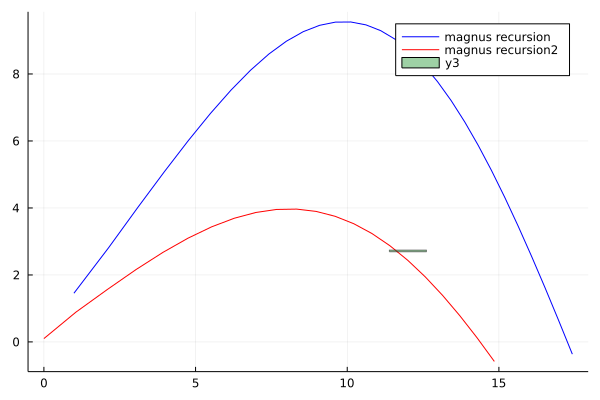
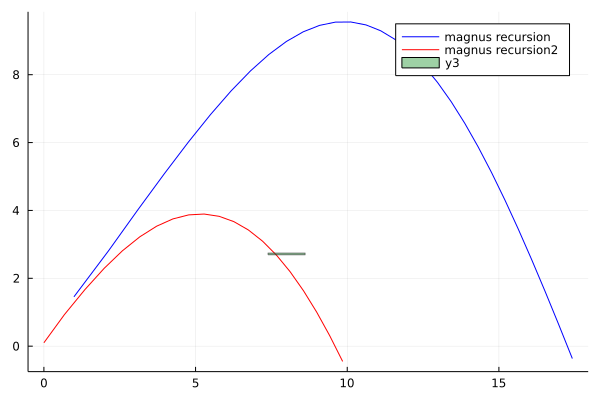
something something this is where git breaks
This reverts commit 9f1d5083c3188668f7d04da4a7a20aa9178f8e43.

diff --git a/skynet-robot-libary/src/main/java/frc/robot/lib/Meth/shooter_optimiztion.java b/skynet-robot-libary/src/main/java/frc/robot/lib/Meth/shooter_optimiztion.java
@@ -72,8 +72,8 @@ public final class shooter_optimiztion {
         Double Angle_Increment = (shooting_angle != OptimizationType.MAXIMIZE) ? -Angle_Resolution : Angle_Resolution;
         Double Current_Angle = Initial_Angle;
 
-        Double Initial_Rotation_Ratio = (spin_dierction != OptimizationType.MAXIMIZE) ? 1 - (Min_RPM / Max_RPM)
-                : (Min_RPM / Max_RPM);
+        Double Initial_Rotation_Ratio = (spin_dierction != OptimizationType.MAXIMIZE) ? 1 - 2 * (Min_RPM / Max_RPM)
+                : 2 * (Min_RPM / Max_RPM);
         Double Rotation_Ratio_Increment = (spin_dierction != OptimizationType.MAXIMIZE) ? -Rotation_Ratio_Resolution
                 : Rotation_Ratio_Resolution;
         Double Current_Rotation_Ratio = (spin_dierction == OptimizationType.IGNORE) ? -1.0 : Initial_Rotation_Ratio;
@@ -91,7 +91,7 @@ public final class shooter_optimiztion {
 
                 double muzzle_velocity = (TopRPS * TopCircumference + BottomRPS * BottomCircumference) / 2.0; // SURFACE
                                                                                                               // SPEED
-                double angle_rads = angle; // IN RADIANS
+                double angle_rads = Math.toRadians(angle); // IN RADIANS
 
                 double TopRads = 0.104719755 * TopRPM;
                 double BottompRads = 0.104719755 * BottomRPM;
@@ -106,11 +106,12 @@ public final class shooter_optimiztion {
                 projectile.set_rotational_velocity(started_rotational_velocity);
 
                 ArrayList<State> states = projectile.simulate_ball(false);
+
                 Boolean result = target.check(states);
 
-                // if (result) {
-                // states_to_pos(states);
-                // }
+                if (result) {
+                    states_to_pos(states);
+                }
 
                 projectile.set_position(new Vector(0.0, 0.1, 0.0));
                 return result;

diff --git a/skynet-robot-libary/src/main/java/frc/robot/lib/Physics/lib/Ball.java b/skynet-robot-libary/src/main/java/frc/robot/lib/Physics/lib/Ball.java
@@ -442,13 +442,13 @@ public class Ball extends PhysicalObjectBase {
         Ball ball = new Ball(0.26932047, 0.12065, 0.47, 0.1);
         ball.state.kinematics_varuibales.add(new Vector(0.0, 0.0, 0.0));
 
-        Target hub = new Target(new Vector(12.0, 2.7178, 0.0), new Vector(1.22 - (ball.get_radius() * 4.0), 0.05,
-                1.0), 999, -999, 999, -999);
-        // Vector results = shooter_optimiztion.optimize(ball, hub,
-        // OptimizationType.MAXIMIZE, OptimizationType.MINIMIZE,
-        // OptimizationType.MINIMIZE,
-        // OptimizationType.IGNORE, OptimizationType.IGNORE, OptimizationType.IGNORE,
-        // 90.0, 45.0, 5000.0, 1500.0);
-        write_csv(ball, hub, 90.0, 45.0, 5000.0, 1500.0, true, 0.01);
+        Target hub = new Target(new Vector(8.0, 2.7178, 0.0), new Vector(1.22 - (ball.get_radius() * 4.0), 0.05,
+                1.0), 45, 0, 999, -999);
+        Vector results = shooter_optimiztion.optimize(ball, hub,
+                OptimizationType.MINIMIZE, OptimizationType.MINIMIZE,
+                OptimizationType.MINIMIZE,
+                OptimizationType.IGNORE, OptimizationType.IGNORE, OptimizationType.IGNORE,
+                45.0, 0.0, 5000.0, 1500.0);
+        // write_csv(ball, hub, 90.0, 45.0, 5000.0, 1500.0, true, 0.01);
     }
 }

diff --git a/skynet-robot-libary/src/main/java/frc/robot/lib/Meth/Target.java b/skynet-robot-libary/src/main/java/frc/robot/lib/Meth/Target.java
@@ -129,6 +129,7 @@ public class Target {
             segment.CY = states.get(index).position.getComponent(1);
 
             double angle_deg = -(Math.toDegrees(Math.atan2(segment.CY - segment.LY, segment.CX - segment.LX)));
+
             double velocity = new Vector(segment.CX - segment.LX, segment.CY - segment.LY).getMagnitude();
 
             if (LineLine(new Vector(segment.LX, segment.LY), new Vector(segment.CX, segment.CY),
@@ -145,6 +146,7 @@ public class Target {
                         if (velocity >= minimum_entry_velocity && velocity <= maximum_entry_velocity) {
                             return true;
                         }
+                    } else {
                     }
                 }
             }
